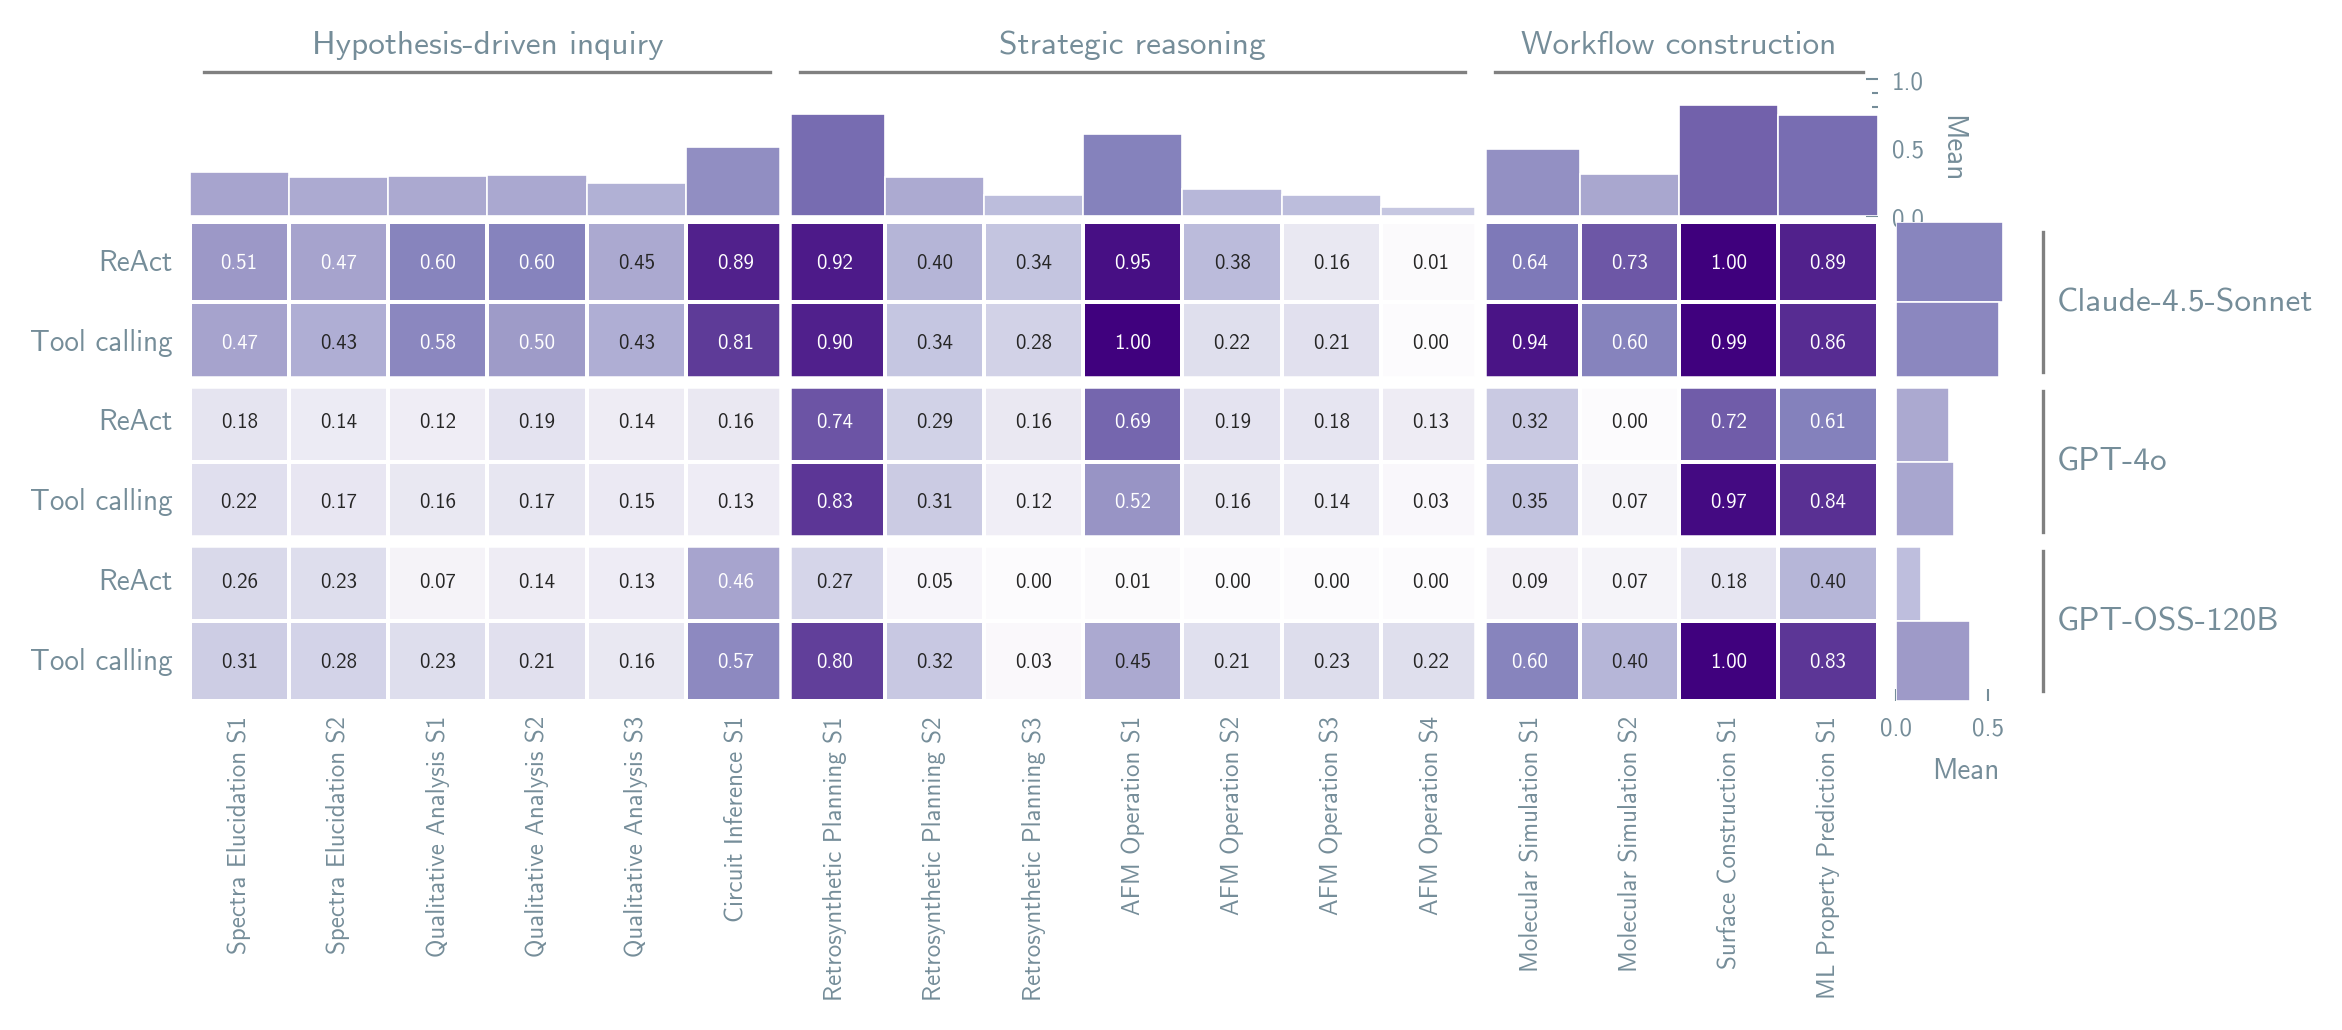
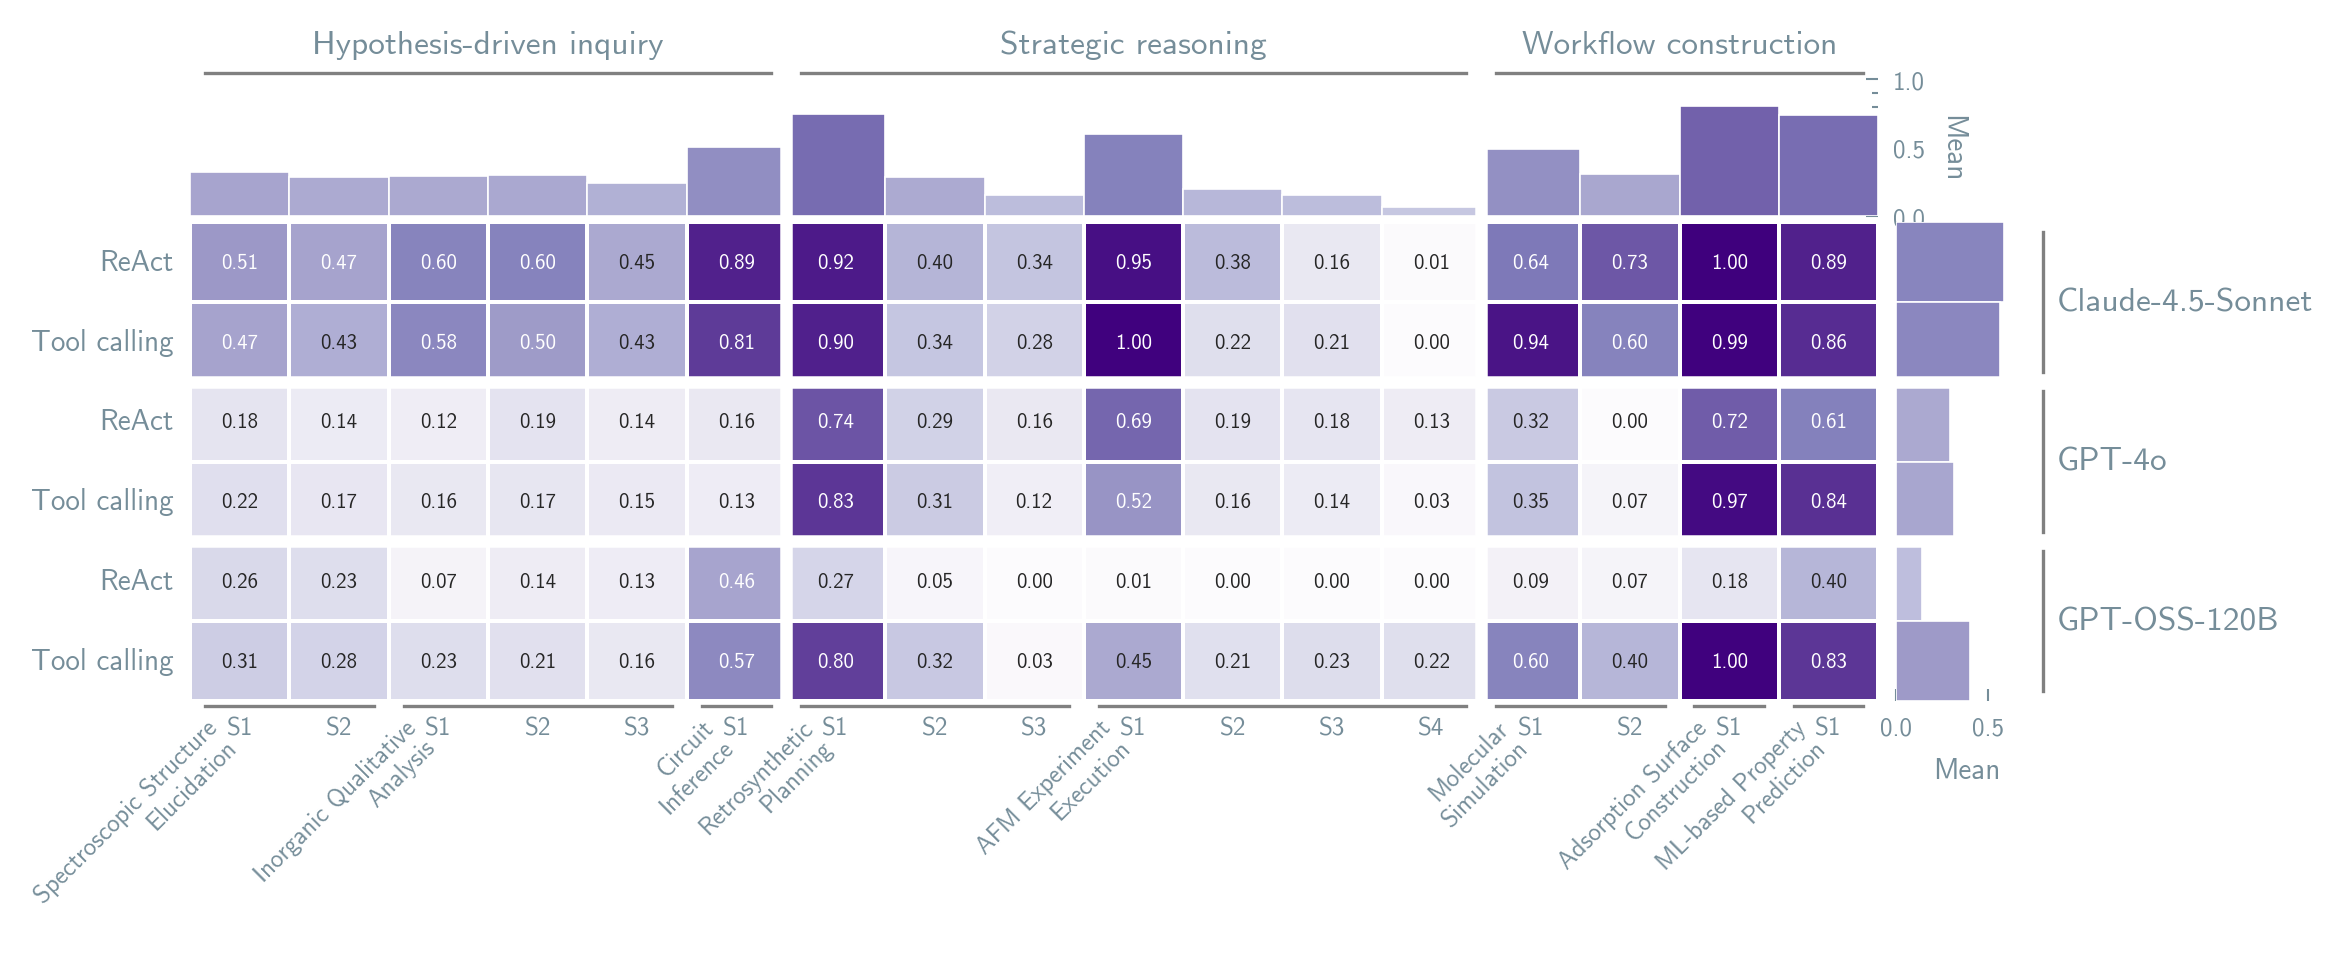
feat: update environment names and two-level x-axis labels
Update ENVIRONMENT_NAMES to match paper naming conventions (e.g.
Spectroscopic Structure Elucidation, AFM Experiment Execution).
Split x-axis into S1/S2/S3 tick labels with environment names
below as 45-degree rotated labels with grouping lines.

diff --git a/plots/panel_2/2a_full_coverage_heatmap.py b/plots/panel_2/2a_full_coverage_heatmap.py
@@ -135,26 +135,35 @@ def format_heatmap_data(pivot_df: pd.DataFrame) -> tuple[pd.DataFrame, list[dict
 
     display_df = pd.DataFrame(new_rows)
 
-    # Format column labels (environment-level -> ENV S#)
+    # Format column labels to just S# and track environment spans
     col_labels = []
-    for env_level in display_df.columns:
+    env_spans = []  # list of (env_display_name, col_start, col_end)
+    prev_env = None
+    for idx, env_level in enumerate(display_df.columns):
         parts = env_level.split("-")
         if len(parts) >= 2:
             env = parts[0]
             level = parts[1]
             env_name = ENVIRONMENT_NAMES.get(env, env.upper())
-            col_labels.append(f"{env_name} S{level}")
+            col_labels.append(f"S{level}")
+            if env != prev_env:
+                if env_spans:
+                    env_spans[-1] = (*env_spans[-1][:2], idx - 1)
+                env_spans.append((env_name, idx, idx))
+                prev_env = env
+            else:
+                env_spans[-1] = (*env_spans[-1][:2], idx)
         else:
             col_labels.append(env_level)
     display_df.columns = col_labels
 
-    return display_df, row_meta
+    return display_df, row_meta, env_spans
 
 
 # ==================== PLOTTING ====================
 
 
-def _get_group_column_spans(display_df: pd.DataFrame) -> list[tuple[str, int, int]]:
+def _get_group_column_spans(n_cols_total: int) -> list[tuple[str, int, int]]:
     """Compute (group_name, col_start, col_end) spans for the ordered columns."""
     spans = []
     col_idx = 0
@@ -162,14 +171,11 @@ def _get_group_column_spans(display_df: pd.DataFrame) -> list[tuple[str, int, in
         start = col_idx
         for env in group_info["environments"]:
             max_level = ENVIRONMENT_MAX_LEVELS.get(env, 1)
-            for _lvl in range(1, max_level + 1):
-                env_name = ENVIRONMENT_NAMES.get(env, env.upper())
-                col_label = f"{env_name} S{_lvl}"
-                if col_label in display_df.columns:
-                    col_idx += 1
+            col_idx += max_level
         if col_idx > start:
             spans.append((group_name, start, col_idx - 1))
-    return spans
+    # Clamp to actual column count
+    return [(g, s, min(e, n_cols_total - 1)) for g, s, e in spans if s < n_cols_total]
 
 
 def plot_full_coverage_heatmap(
@@ -188,7 +194,7 @@ def plot_full_coverage_heatmap(
         logger.warning("No data available for heatmap!")
         return
 
-    display_df, row_meta = format_heatmap_data(heatmap_data)
+    display_df, row_meta, env_spans = format_heatmap_data(heatmap_data)
 
     n_cols = len(display_df.columns)
     n_rows = len(display_df.index)
@@ -241,7 +247,7 @@ def plot_full_coverage_heatmap(
             ax_heatmap.axhline(y=i, color="white", linewidth=3, zorder=5)
 
     # --- Thick white separator lines between environment groups (vertical) ---
-    group_spans = _get_group_column_spans(display_df)
+    group_spans = _get_group_column_spans(n_cols)
     for _group_name, _col_start, col_end in group_spans[:-1]:  # skip last group
         ax_heatmap.axvline(x=col_end + 1, color="white", linewidth=3, zorder=5)
 
@@ -273,10 +279,39 @@ def plot_full_coverage_heatmap(
 
     # Model name labels are on the right bar chart (see below)
 
-    # --- X-axis: env labels at bottom ---
+    # --- X-axis: S# labels at bottom, environment names above them ---
     ax_heatmap.set_xlabel("")
     ax_heatmap.tick_params(axis="x", labelsize=FONT_SIZES["tick_label"] - 2)
-    ax_heatmap.set_xticklabels(ax_heatmap.get_xticklabels(), rotation=90, ha="center")
+    ax_heatmap.set_xticklabels(ax_heatmap.get_xticklabels(), rotation=0, ha="center")
+
+    # Lines and environment name labels below S# tick labels
+    for env_name, col_start, col_end in env_spans:
+        mid_x = (col_start + col_end) / 2.0 + 0.5
+        start_frac = (col_start + 0.15) / n_cols
+        end_frac = (col_end + 0.85) / n_cols
+        mid_frac = mid_x / n_cols
+        # Line spanning the environment's columns
+        ax_heatmap.plot(
+            [start_frac, end_frac],
+            [-0.01, -0.01],
+            color="gray",
+            linewidth=0.8,
+            clip_on=False,
+            transform=ax_heatmap.transAxes,
+        )
+        # Environment name label below the line, anchored at start of span
+        ax_heatmap.text(
+            start_frac,
+            -0.03,
+            env_name,
+            ha="right",
+            va="top",
+            fontsize=FONT_SIZES["tick_label"] - 2,
+            rotation=45,
+            rotation_mode="anchor",
+            clip_on=False,
+            transform=ax_heatmap.transAxes,
+        )
 
     # --- Top bar chart (column means) ---
     purple_cmap = plt.get_cmap("Purples")

diff --git a/analysis/plot_config.py b/analysis/plot_config.py
@@ -13,14 +13,14 @@ MODEL_NAMES = {
 }
 
 ENVIRONMENT_NAMES = {
-    "afm": "AFM Operation",
-    "catalyst": "Surface Construction",
-    "md": "Molecular Simulation",
-    "ml": "ML Property Prediction",
-    "resistor": "Circuit Inference",
-    "retro": "Retrosynthetic Planning",
-    "spectra": "Spectra Elucidation",
-    "wetlab": "Qualitative Analysis",
+    "afm": "AFM Experiment\nExecution",
+    "catalyst": "Adsorption Surface\nConstruction",
+    "md": "Molecular\nSimulation",
+    "ml": "ML-based Property\nPrediction",
+    "resistor": "Circuit\nInference",
+    "retro": "Retrosynthetic\nPlanning",
+    "spectra": "Spectroscopic Structure\nElucidation",
+    "wetlab": "Inorganic Qualitative\nAnalysis",
 }
 
 AGENT_NAMES = {
